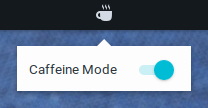
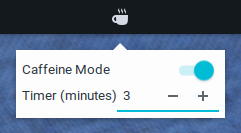
Finalize timer support

diff --git a/README.md b/README.md
@@ -9,6 +9,8 @@ Simple applet to prevent screen dimming on long idle time.
 - Prevent screen dimming
 - Prevent triggering lock screen
 - Notification support (For you who want visual noise)
+- Timer
+- i18n Support (currently only en_US, and id)
 
 ![notification support](https://raw.githubusercontent.com/yursan9/budgie-caffeine-applet/master/img/notification-support.png)
 
